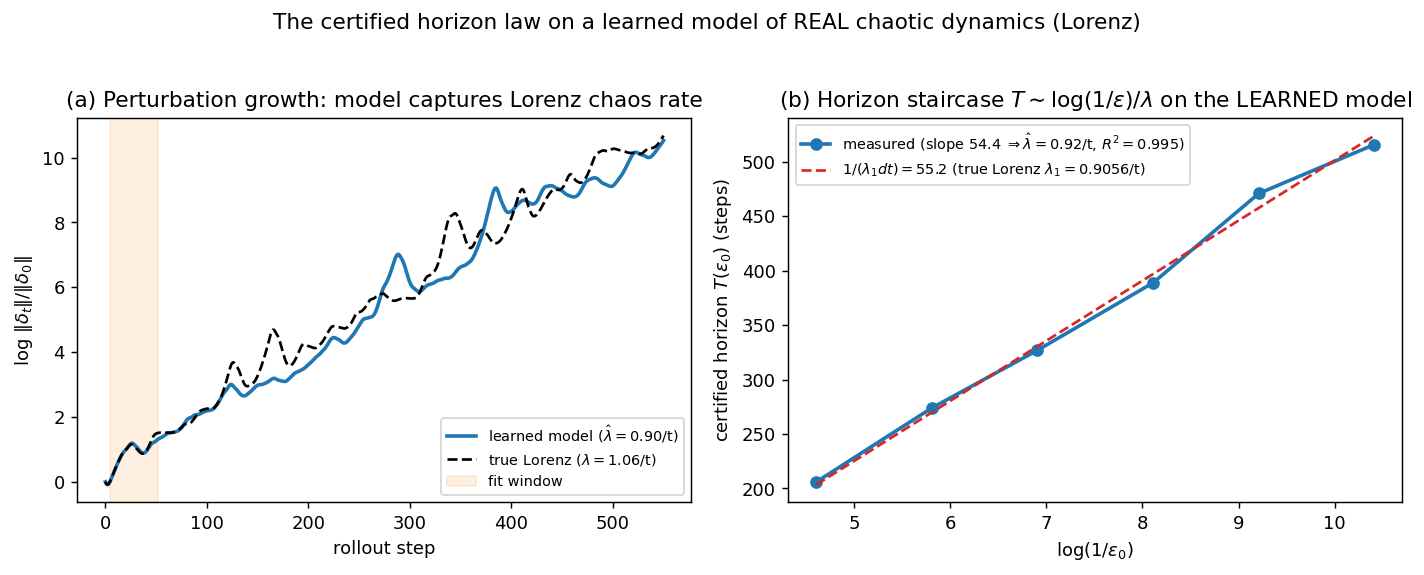
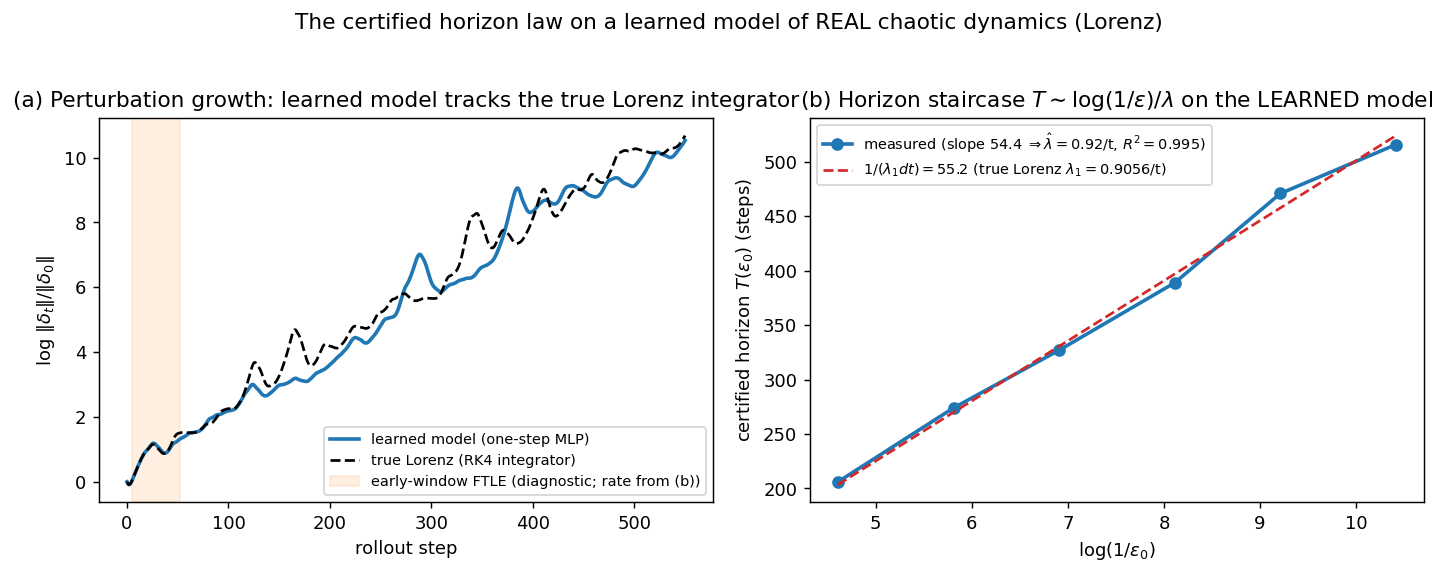
Step 70 figure: drop misleading window-FTLE lambda from Lorenz panel (a)
Panel (a) legend previously printed the early-window finite-time exponents
(learned 0.90/t vs true 1.06/t) -- the very quantity Step 70 flags as
window-sensitive and diagnostic-only. A reader glancing at the figure saw a
spurious ~15% model-vs-true gap, contradicting the load-bearing claim (panel b:
staircase slope recovers the true lambda_1=0.9056 to 1-8%).

Fix: panel (a) is now purely qualitative -- "learned model (one-step MLP)" vs
"true Lorenz (RK4 integrator)" curves that visibly track each other; the
fit-window shading is relabeled "early-window FTLE (diagnostic; rate from (b))";
title no longer claims a numeric rate. All quantitative content lives in panel
(b), consistent with the text. Numbers unchanged (seed 1: R^2=0.995,
lambda_staircase=0.919). Both PDFs rebuilt; test_step70 still passes.

diff --git a/experiments/step70_lorenz_horizon.py b/experiments/step70_lorenz_horizon.py
@@ -199,12 +199,15 @@ def main() -> None:
 
     fig, (axa, axb) = plt.subplots(1, 2, figsize=(11.0, 4.3))
     tt = np.arange(T_ROLL + 1)
-    axa.plot(tt, logg_m, "C0-", lw=2, label=f"learned model ($\\hat\\lambda={lam_model/DT:.2f}$/t)")
-    axa.plot(tt, logg_t, "k--", lw=1.5, label=f"true Lorenz ($\\lambda={lam_true/DT:.2f}$/t)")
-    axa.axvspan(t0, t1, color="C1", alpha=0.12, label="fit window")
+    # Panel (a) is QUALITATIVE: the learned model's perturbation growth tracks the true integrator. The quantitative
+    # rate lives entirely in panel (b) (the staircase slope), since the early-window FTLE is window-sensitive (the very
+    # point of Step 70's robust-estimator finding) -- so we do NOT print the misleading window-FTLE lambda here.
+    axa.plot(tt, logg_m, "C0-", lw=2, label="learned model (one-step MLP)")
+    axa.plot(tt, logg_t, "k--", lw=1.5, label="true Lorenz (RK4 integrator)")
+    axa.axvspan(t0, t1, color="C1", alpha=0.12, label="early-window FTLE (diagnostic; rate from (b))")
     axa.set_xlabel("rollout step"); axa.set_ylabel("$\\log\\,\\|\\delta_t\\|/\\|\\delta_0\\|$")
-    axa.set_title("(a) Perturbation growth: model captures Lorenz chaos rate")
-    axa.legend(fontsize=8)
+    axa.set_title("(a) Perturbation growth: learned model tracks the true Lorenz integrator")
+    axa.legend(fontsize=8, loc="lower right")
     slope_ref = 1.0 / (LORENZ_LAMBDA1 * DT)                          # predicted staircase slope from the TRUE Lorenz exponent
     axb.plot(xs, ys, "C0o-", lw=2,
              label=f"measured (slope {slope:.1f} $\\Rightarrow\\hat\\lambda={lam_staircase:.2f}$/t, $R^2{{=}}{r2:.3f}$)")